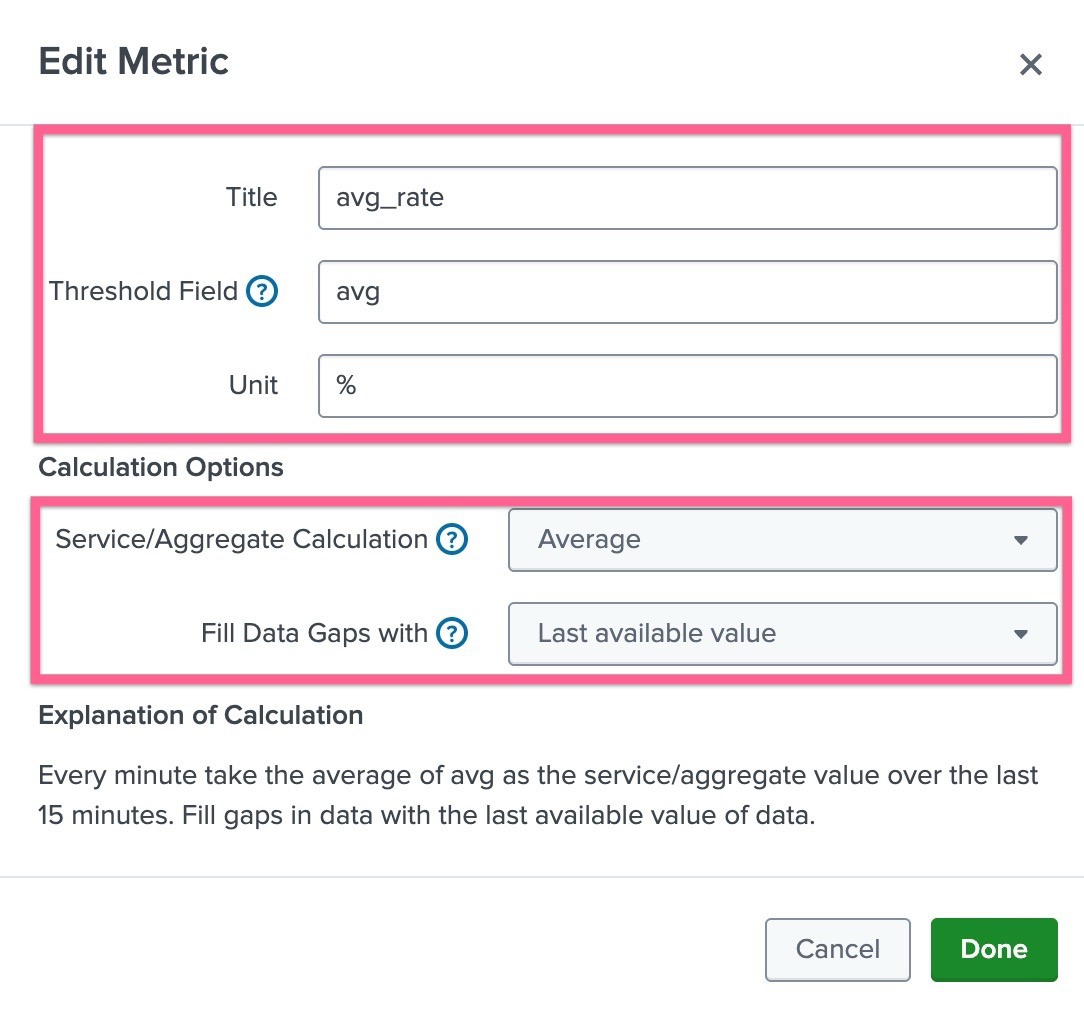
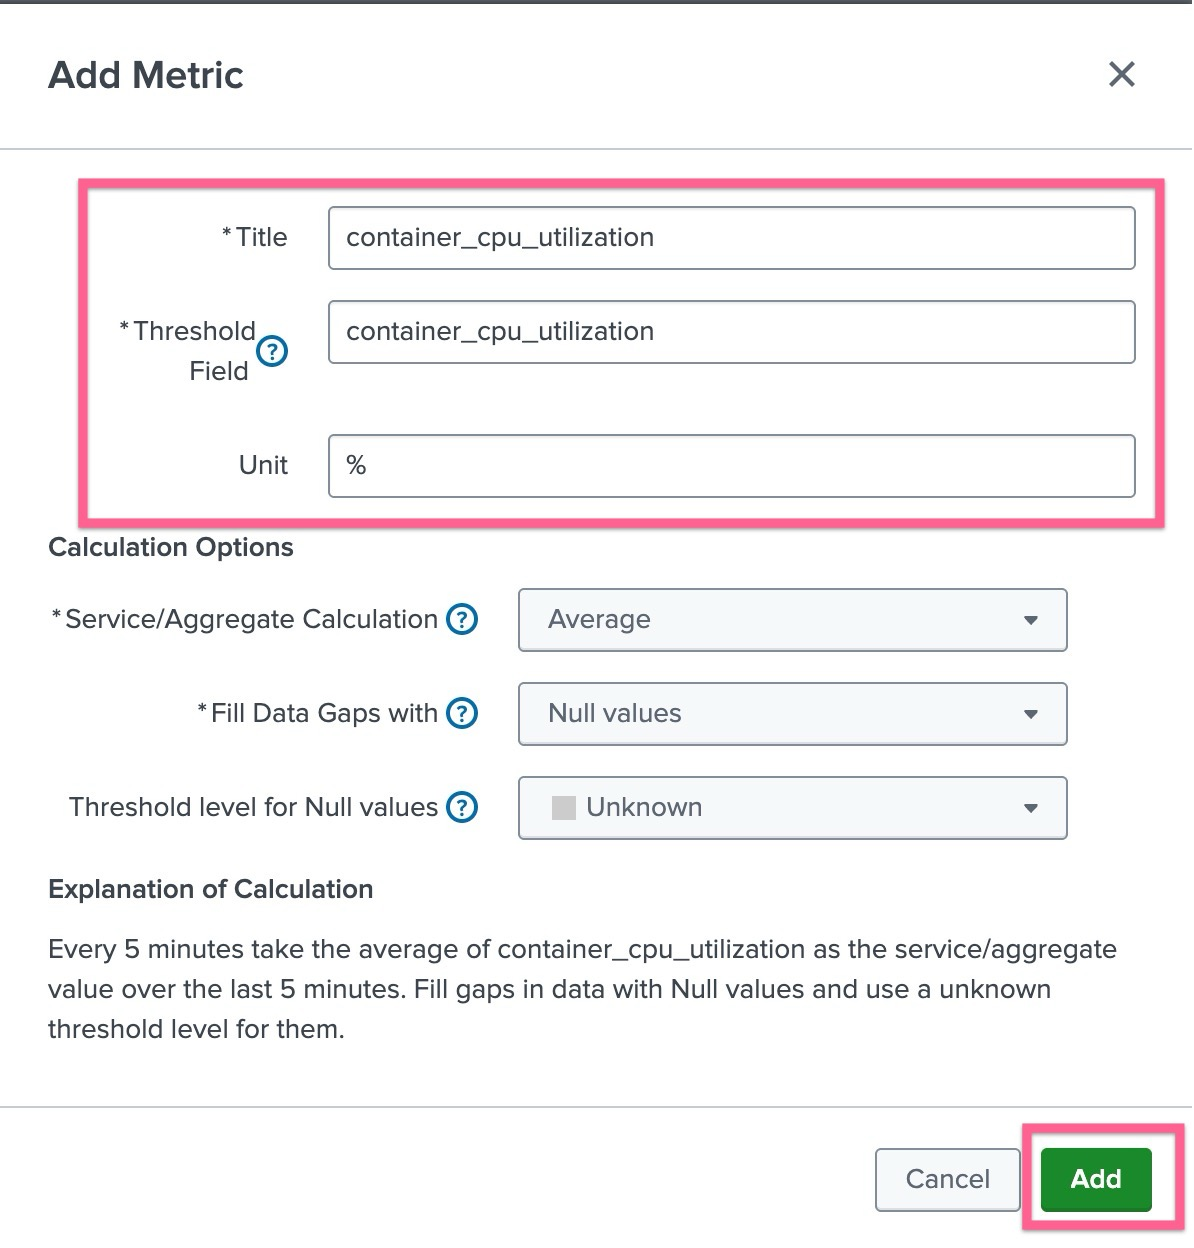
correction KPI

diff --git a/src/2-Splunk4NinjasITSI/2-1-service-insights/2-1-3-BaseSearches/2-1-3-index.md b/src/2-Splunk4NinjasITSI/2-1-service-insights/2-1-3-BaseSearches/2-1-3-index.md
@@ -34,20 +34,18 @@
 4. 그 기간 동안 값을 어떻게 요약할지: count(건수), last(마지막 값), sum(합계), average(평균) 등
 5. KPI 결과 값을 **엔터티(예: 호스트 단위)** 로 나눠서 볼 것인지 여부
 
-> Service 생성 시 선택하는 Modules 에 대해서 좀 더 알아보고 내용 적기
-> https://docs.splunk.com/Documentation/ITSI/4.20.1/SI/ImportSearch
+https://docs.splunk.com/Documentation/ITSI/4.20.1/SI/ImportSearch
 
 </br>
 
 ### KPI에 적용 할 Data를 정제하는 방법은?
 
-총 3가지로 이루어져 있습니다. KPI 를 생성 할 때 어떤 데이터를 가지고 KPI를 만들것인지 묻는 단계가 있는데, 이 때 사용자는 세 가지 옵션중에 선택 할 수 있습니다.
+KPI 를 생성 할 때 어떤 데이터를 가지고 KPI를 만들것인지 묻는 단계가 있는데, 이 때 사용자는 두 가지 옵션중에 선택 할 수 있습니다.
 
-- Module Search : 이미 ITSI에 의해 제공되는 데이터 소스 별 서치 템플릿
 - KPI Based Search : Saved Search 또는 Ad-hoc Search 형태로 SPL을 통해 검색
-- 각 KPI에 선택 조건, 계산 방법, 기간(Window), 엔터티 정의를 직접 포함하여 생성
+- Ad-hoc search : 각 KPI에 선택 조건, 계산 방법, 기간(Window), 엔터티 정의를 직접 포함하여 생성
 
-모듈 서치를 사용하면 KPI 생성에 빠르게 접근 할 수 있겠지만, 유즈케이스에 따라 상이한 모든 IT환경에 맞게 만들어져있지 않습니다. 따라서 동일한 조건을 여러 KPI가 함께 사용할 수 있다면, **Base Search**로 정의하는 것을 권장합니다
+Ad-hoc 서치를 사용하면 KPI 생성에 빠르게 접근 할 수 있겠지만, 매번 서비스마다 KPI를 지정 할 때 매뉴얼하게 SPL문을 작성해야합니다. 따라서 동일한 조건을 여러 KPI가 함께 사용할 수 있다면, **Base Search**로 정의하는 것을 권장합니다
 
 </br>
 
@@ -65,70 +63,94 @@ Base Search를 공유하면 동시 검색 부하(Search Concurrency Load)를 줄
 
 ## LAB 03. KPI Base Search 만들기
 
-### 1. Web Traffic Base Search 만들기
+우리가 KPI로 등록할 메트릭 리스트는 아래와 같습니다
+
+| Metric Type | Metric Name                        | KPI Metric                |
+| ----------- | ---------------------------------- | ------------------------- |
+| Infra       | container.filesystem.usage         | container_cpu_utilization |
+| Infra       | container.memory.usage             |                           |
+| Infra       | container_cpu_utilization          |                           |
+| APM         | service.request.count              |                           |
+| APM         | service.request.duration.ns.median |                           |
+| APM         | service.request.duration.ns.p99    |                           |
+| RUM         | rum.client_error.count             |                           |
+| RUM         | rum.page_view.count                |                           |
+| RUM         | rum.page_view.time.ns.p75          |                           |
+| RUM         | rum.resource_request.count         |                           |
+| RUM         | rum.resource_request.time.ns.p75   |                           |
+| RUM         | rum.webvitals_cls.score.p75        |                           |
+| RUM         | rum.webvitals_fid.time.ns.p75      |                           |
+| RUM         | rum.webvitals_lcp.time.ns.p75      |                           |
+| Synthetics  |                                    |                           |
+
+### 1. Infrastructure Base Search 만들기
 
 - Splunk Cloud 에서 **[ITSI] > [Configurations] > [KPI Base Search]** 메뉴로 이동합니다
 - **[Create KPI Base Search]** 버튼을 클릭하여 생성을 시작합니다
-- Title : **_OBQ : Web Traffic_** 로 지정 후 **[Create]** 버튼을 누릅니다
-- 방금 만든 KPI Base Search 의 이름을 눌러 설정으로 들어갑니다
+- Title : **_OBQ : Infrastructure_** 로 지정 후 **[Create]** 버튼을 누릅니다
   ![](../../../images/2-ninja-itsi/2-1-3-config1.jpg)
 - Search Type : Ad hoc Search 선택
 - Search : 아래와 같이 입력
   ```bash
-  | mstats avg(_value)
-  WHERE index=sim_metrics metric_name="service.request.count" sf_service="frontend"
-  span=1m BY sf_service
+  | mstats
+    avg("container.filesystem.usage") as fs_usage,
+    avg("container.memory.usage") as memory_usage,
+    avg("container_cpu_utilization") as cpu_utilization
+  WHERE index=sim_metrics
+  BY k8s.pod.name, host
+  span=1m
+  | table _time, k8s.pod.name, host, fs_usage, memory_usage, cpu_utilization
   ```
-- KPI Search Scheduel : Every minute
-- Calculation Window : Last 15 minutes
-- Split by Entity : Yes 선택 후 sf_service 입력
-  > 필요시 Base Search 에 특정 엔터티를 구분해서 볼 수 있도록 되어있는 서비스입니다. </br>예: 웹 트랜잭션을 서버별로 나눠서 보기 위해 host 기준으로 분리(Split)
-  > → 여러 웹 서버가 있을 경우, 각 서버별 트랜잭션 수가 따로 계산됩니다.
-- Filter Entities in Service : No 선택 그대로 둡니다
-  > 필요시 서비스 별로 엔터티를 필터링 할 수 있는 기능입니다 </br> 예: 서비스 엔터티 필터링 옵션을 켜고, 이 Base Search를 Online Sales 서비스의 KPI에 연결하면
-  > 해당 서비스에 할당된 엔터티만 KPI 값 계산에 사용됩니다.
-
-내용 입력을 완료하였다면 아래 부분에 있는 [Add Metric] 버튼을 눌러 아래와 같이 입력합니다
-
-![](../../../images/2-ninja-itsi/2-1-3-config2.jpg)
-
-- Title : avg_rate
-- Threshold Field : avg
-- Service/Aggregate Calculation : Average
-- Fill Data Gaps with : Last availalbe value
-- **[Done]** 을 눌러 생성을 완료하고 빠져나옵니다
+- 아래 부분에 있는 [Add Metric] 버튼을 눌러 아래와 같이 입력합니다
+  ![](../../../images/2-ninja-itsi/2-1-3-config2.jpg)
+  - Title : container_cpu_utilization
+  - Threshold Field : container_cpu_utilization
+  - Unit : %
+  - **[Done]** 을 눌러 생성을 완료하고 빠져나옵니다
+- 나머지 메트릭도 만들어줍니다
+- container.filesystem.usage, container.memory.usage
 
 </br>
 
-### 2. Web Views Base Search 만들기
+### 2. APM Error Base Search 만들기
 
 - **[Create KPI Base Search]** 버튼을 클릭하여 생성을 시작합니다
-- Title : **_OBQ : Web Catalog Views_** 로 지정 후 **[Create]** 버튼을 누릅니다
+- Title : **_OBQ : Application Errors_** 로 지정 후 **[Create]** 버튼을 누릅니다
 - 방금 만든 KPI Base Search 의 이름을 눌러 설정으로 들어갑니다
 - Search Type : Ad hoc Search 선택
 - Search : 아래와 같이 입력
   ```bash
-  | mstats avg(_value)
-  WHERE index=sim_metrics metric_name="service.request.count" sf_service="productcatalogservice"
-  span=1m BY sf_service
+  | mstats
+      sum("service.request.count") as request_count,
+      avg("service.request.duration.ns.median") as duration_median,
+      avg("service.request.duration.ns.p99") as duration_p99
+    WHERE index=sim_metrics
+      AND sf_service=*
+      AND sf_environment=*
+      AND sf_error="true"
+    BY sf_service, sf_environment
+    span=1m
+  | rename sf_service as service, sf_environment as environment
+  | table _time, service, environment, request_count, duration_median, duration_p99
   ```
 - KPI Search Scheduel : Every minute
 - Calculation Window : Last 15 minutes
 - Split by Entity : Yes 선택 후 sf_service 입력
 - Filter Entities in Service : No 선택 그대로 둡니다
 - 아래 부분에 있는 [Add Metric] 버튼을 눌러 아래와 같이 입력합니다
-  - Title : view_count
-  - Threshold Field : \_time
-  - Service/Aggregate Calculation : distict count
-  - Fill Data Gaps with : Last availalbe value
-- **[Done]** 을 눌러 생성을 완료하고 빠져나옵니다
+  - Title : request_error_count
+  - Threshold Field : request_count
+  - Unit : 개
+  - **[Done]** 을 눌러 생성을 완료하고 빠져나옵니다
+- 나머지 메트릭도 만들어줍니다
+- service.request.duration.ns.median, service.request.duration.ns.p99
 
 </br>
 
-### 3. Web Purchase Base Search 만들기
+### 3. APM Requrest Base Search 만들기
 
 - **[Create KPI Base Search]** 버튼을 클릭하여 생성을 시작합니다
-- Title : **_OBQ : Web Purchase_** 로 지정 후 **[Create]** 버튼을 누릅니다
+- Title : **\_OBQ : Application Request** 로 지정 후 **[Create]** 버튼을 누릅니다
 - 방금 만든 KPI Base Search 의 이름을 눌러 설정으로 들어갑니다
 - Search Type : Ad hoc Search 선택
 - Search : 아래와 같이 입력

diff --git a/src/2-Splunk4NinjasITSI/ITSI-Cheatsheet.md b/src/2-Splunk4NinjasITSI/ITSI-Cheatsheet.md
@@ -19,6 +19,12 @@ error_durations = data('service.request' + '.duration.ns.' + 'median', filter=fi
 non_error_durations = data('service.request' + '.duration.ns.' + 'median', filter=filter('sf_environment', '*') and filter('sf_service', '*') and filter('sf_error','*') and not filter('sf_dimensionalized', '*') and filter('sf_error', 'false'), rollup='max').mean(by=['sf_service', 'sf_environment', 'sf_error'], allow_missing=['sf_httpMethod']).publish(label='non_error_durations');
 error_counts = data('service.request' + '.count', filter=filter('sf_environment', '*') and filter('sf_service', '*') and filter('sf_error','*') and not filter('sf_dimensionalized', '*') and filter('sf_error', 'true'), rollup='sum').sum(by=['sf_service', 'sf_environment', 'sf_error'], allow_missing=['sf_httpMethod']).publish(label='error_counts');
 non_error_counts = data('service.request' + '.count', filter=filter('sf_environment', '*') and filter('sf_service', '*') and filter('sf_error','*') and not filter('sf_dimensionalized', '*') and filter('sf_error', 'false'), rollup='sum').sum(by=['sf_service', 'sf_environment', 'sf_error'], allow_missing=['sf_httpMethod']).publish(label='non_error_counts');
+
+service.request.duration.ns.p99
+
+data('service.request.count', filter=filter('sf_environment', '*') and filter('sf_service', '*') and (not filter('sf_dimensionalized', '*')), rollup='rate').sum(by=['sf_service', 'sf_environment']).publish();
+data('service.request' + '.duration.ns.' + 'p99', filter=filter('sf_environment', '*') and filter('sf_service', '*') and filter('sf_error','*') and not filter('sf_dimensionalized', '*') and filter('sf_error', 'false'), rollup='max').mean(by=['sf_service', 'sf_environment', 'sf_error'], allow_missing=['sf_httpMethod']).publish();
+
 ```
 
 </br>
@@ -33,4 +39,10 @@ data('rum.page_view.count').publish(label='rum_page_view'); data('rum.client_err
 data('*', filter=filter('sf_product', 'synthetics') and filter('test_type', '*')).publish();
 data('synthetics.run.uptime.percent', filter=filter('test_type', 'browser')and filter('test', '*')).mean(over=Args.get('ui.dashboard_window', '15m')).mean(by=['test']).publish();
 data('synthetics.duration.time.ms', filter=filter('test', '*') and filter('test_type', 'browser')).mean(by=['location', 'location_id', 'test_id', 'test_type']).publish();
+data('service.request' + '.duration.ns.' + 'median', filter=filter('sf_environment', '*') and filter('sf_service', '*') and filter('sf_error','*') and not filter('sf_dimensionalized', '*') and filter('sf_error', 'false'), rollup='max').mean(by=['sf_service', 'sf_environment', 'sf_error'], allow_missing=['sf_httpMethod']).publish();
+
+data("service.request.duration.ns.p99", filter=filter("sf_service", "*")).publish();
+data("service.request.duration.ns.median", filter=filter("sf_service", "*")).publish();
+data("service.request.count", filter=filter("sf_service", "*")).publish();
+
 ```
